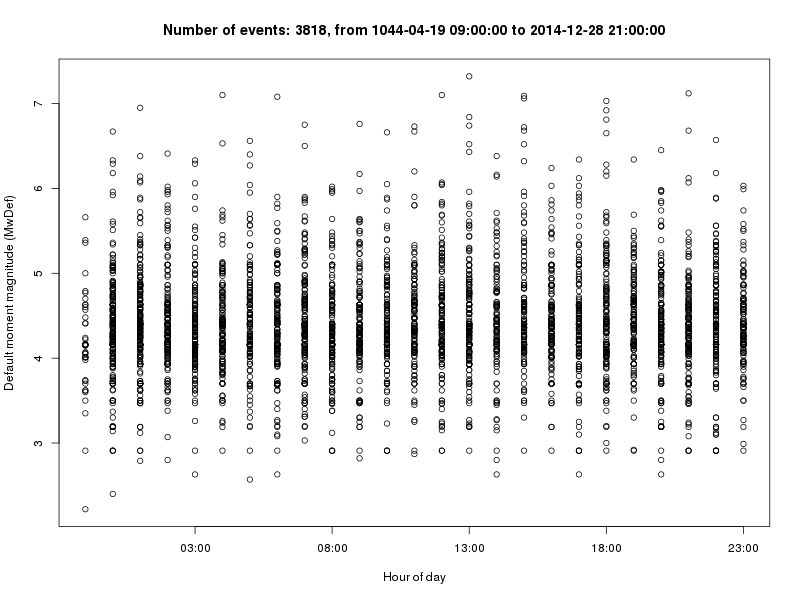
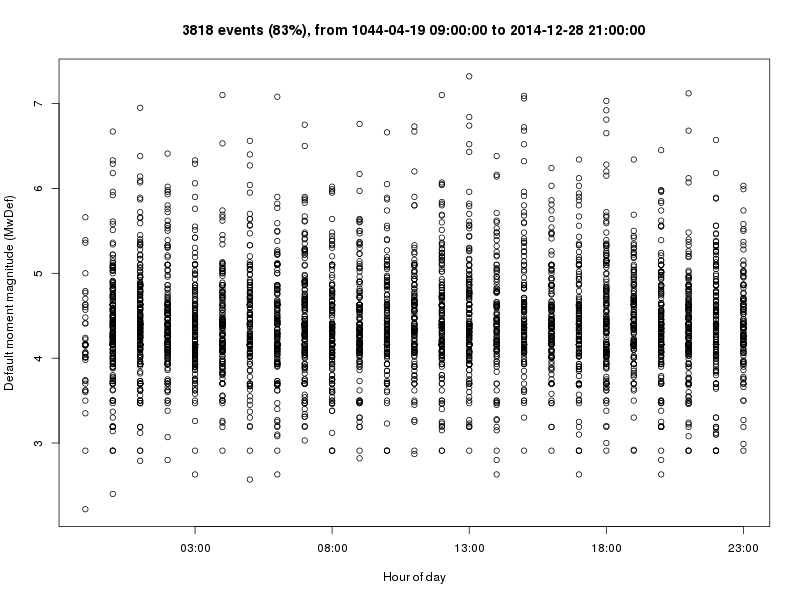
Update README.md

Changed region(s): [[0.1875, 0.03, 0.8438, 0.06]]

diff --git a/README.md b/README.md
@@ -1,12 +1,20 @@
 # sismi
 Visualization of italian earthquakes data.
 
-Data is from:
+I get the data from
 
 Rovida A., Locati M., Camassi R., Lolli B., Gasperini P. (eds), 2016. *CPTI15, the 2015 version of the Parametric Catalogue of Italian Earthquakes.* Istituto Nazionale di Geofisica e Vulcanologia.
 doi:http://doi.org/10.6092/INGV.IT-CPTI15
 
+Then I select the earthquakes where the time is known to the seconds and I plot the *Default Moment Magnitude* of said earthquakes versus the time of day, this is the plot I get:
+
 ![alt text](MwDef_vs_time-of-day.png "Default Moment Magnitude (MwDef) vs time of day (to seconds).")
 
+The oldest earthquake in this selection was in 1801 (1801-10-08 07:52:53 with epicentre in the Bolognese area) and the 1957 events are about the 42% of the entire dataset.
+
+In order to get more events I select the earthquakes where the time is known to the hour and I get a subset of 3818 events that now are about the 83% of the entire dataset:
+
 ![alt text](MwDef_vs_hour-of-day.png "Default Moment Magnitude (MwDef) vs hour of day.")
+
+This graph shows a vertical stripe pattern due to the fact that now the time of the earthquakes is known only to the hour.
 
